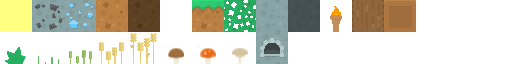
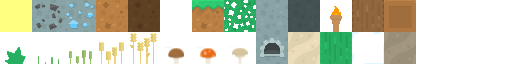
Added deserts, along with cacti and sand which can be cooked into glass. Small Fixes for cookable items and stove block.

Changed region(s): [[0.5625, 0.5, 0.8125, 1.0]]

diff --git a/core/src/com/jmrapp/terralegion/game/world/chunk/gen/HillGenerator.java b/core/src/com/jmrapp/terralegion/game/world/chunk/gen/HillGenerator.java
@@ -14,6 +14,10 @@ public class HillGenerator implements WorldGenerator {
 
 	private Random grassRandom = new Random();
 
+	private boolean sandyGeneration;
+
+	private final int maxCactusHeight = 4;
+
 	public HillGenerator(OreGenerator oreGen) {
 		this.oreGen = oreGen;
 	}
@@ -25,6 +29,12 @@ public class HillGenerator implements WorldGenerator {
 
 	}
 
+	public void generateSandy(SimplexNoise noise, Chunk chunk){
+		sandyGeneration = true;
+		generate(noise, chunk);
+		sandyGeneration = false;
+	}
+
 	public void generate(SimplexNoise noise, Chunk chunk, int x, int y) {
 		int totalX = x + (Chunk.CHUNK_SIZE * chunk.getStartX());
 		float freq = 1.0f / (Chunk.CHUNK_SIZE * 1.25f);
@@ -32,22 +42,30 @@ public class HillGenerator implements WorldGenerator {
 		int finalY = (int) (i * 25) + 24;
 
 		//SET GRASS
-		chunk.setBlock(BlockType.GRASS, x, finalY, false);
-		chunk.setWall(BlockType.DIRT_WALL, x, finalY, false);
+		chunk.setBlock(sandyGeneration ? BlockType.SAND : BlockType.GRASS, x, finalY, false);
+		chunk.setWall(sandyGeneration ? BlockType.SAND_WALL : BlockType.DIRT_WALL, x, finalY, false);
 
 		if(grassRandom.nextInt(5) == 1) {
-			chunk.setBlock(BlockType.COVER_GRASS, x, finalY + 1, false);
+			if(!sandyGeneration) {
+				chunk.setBlock(BlockType.COVER_GRASS, x, finalY + 1, false);
+			}else{
+				for(int cactus = 0; cactus < grassRandom.nextInt(maxCactusHeight); cactus++) {
+					chunk.setBlock(BlockType.CACTUS, x, finalY + (1 + cactus), false);
+				}
+			}
 		}
 
 		//DETERMINE WHETHER TO GENERATE TREE
-		float treeFreq = 1.0f / Chunk.CHUNK_SIZE;
-		float treeValLast = Math.abs(noise.generate((totalX - 1) * treeFreq, (totalX - 1) * treeFreq, 3, .75f, 1f));
-		float treeVal = Math.abs(noise.generate(totalX * treeFreq, totalX * treeFreq, 3, .75f, 1f));
-		float treeValNext = Math.abs(noise.generate((totalX + 1) * treeFreq, (totalX + 1) * treeFreq, 3, .75f, 1f));
+		if(!sandyGeneration) {
+			float treeFreq = 1.0f / Chunk.CHUNK_SIZE;
+			float treeValLast = Math.abs(noise.generate((totalX - 1) * treeFreq, (totalX - 1) * treeFreq, 3, .75f, 1f));
+			float treeVal = Math.abs(noise.generate(totalX * treeFreq, totalX * treeFreq, 3, .75f, 1f));
+			float treeValNext = Math.abs(noise.generate((totalX + 1) * treeFreq, (totalX + 1) * treeFreq, 3, .75f, 1f));
 
-		if (treeVal > treeValLast && treeVal > treeValNext) { //Peak. Spawn tree
-			int treeY = finalY + 1;
-			TreeGenerator.generateTree(chunk, x, treeY);
+			if (treeVal > treeValLast && treeVal > treeValNext) { //Peak. Spawn tree
+				int treeY = finalY + 1;
+				TreeGenerator.generateTree(chunk, x, treeY);
+			}
 		}
 
 		//GENERATE BELOW
@@ -56,8 +74,8 @@ public class HillGenerator implements WorldGenerator {
 				float dirtFreq = 1.0f / (Chunk.CHUNK_SIZE);
 				float dirtVal = Math.abs(noise.generate(x * dirtFreq, y * dirtFreq, 2, .5f, 1f));
 				if (dirtVal > .3f) {
-					chunk.setBlock(BlockType.DIRT, x, j, false);
-					chunk.setWall(BlockType.DIRT_WALL, x, j, false);
+					chunk.setBlock(sandyGeneration ? BlockType.SAND : BlockType.DIRT, x, j, false);
+					chunk.setWall(sandyGeneration ? BlockType.SAND_WALL : BlockType.DIRT_WALL, x, j, false);
 				} else {
 					chunk.setBlock(BlockType.STONE, x, j, false);
 					chunk.setWall(BlockType.STONE_WALL, x, j, false);

diff --git a/core/src/com/jmrapp/terralegion/game/item/ItemManager.java b/core/src/com/jmrapp/terralegion/game/item/ItemManager.java
@@ -38,9 +38,12 @@ public class ItemManager {
 		items.put(BlockType.MUSHROOM_BROWN.getId(), new BlockItem(BlockType.MUSHROOM_BROWN, ItemCategory.MISC, "Brown Mushroom", ResourceManager.getInstance().getDrawable("mushroom0"), 64));
 		items.put(BlockType.MUSHROOM_RED.getId(), new BlockItem(BlockType.MUSHROOM_RED, ItemCategory.MISC, "Red Mushroom", ResourceManager.getInstance().getDrawable("mushroom1"), 64));
 		items.put(BlockType.MUSHROOM.getId(), new BlockItem(BlockType.MUSHROOM, ItemCategory.MISC, "Mushroom", ResourceManager.getInstance().getDrawable("mushroom2"), 64));
-		items.put(ItemType.FISH.getId(), new FishItem(ItemType.FISH.getId(), ItemType.FISH_COOKED, ItemCategory.MISC, "Fish", ResourceManager.getInstance().getDrawable("fish"), 64, 1, 128));
+		items.put(ItemType.FISH.getId(), new FishItem(ItemType.FISH.getId(), ItemType.FISH_COOKED.getId(), ItemCategory.MISC, "Fish", ResourceManager.getInstance().getDrawable("fish"), 64, 1, 128));
 		items.put(ItemType.FISH_COOKED.getId(), new Item(ItemType.FISH_COOKED.getId(), ItemCategory.MISC, "Fish", ResourceManager.getInstance().getDrawable("fish_cooked"), 64));
 		items.put(BlockType.STOVE.getId(), new BlockItem(BlockType.STOVE, ItemCategory.MISC, "Stove", ResourceManager.getInstance().getDrawable("stove"), 64));
+		items.put(BlockType.SAND.getId(), new CookableItem(BlockType.SAND.getId(), BlockType.GLASS.getId(), ItemCategory.BLOCK, "Sand", ResourceManager.getInstance().getDrawable("sand"), 64, 1f, 128f));
+		items.put(BlockType.CACTUS.getId(), new BlockItem(BlockType.CACTUS, ItemCategory.BLOCK, "Cactus", ResourceManager.getInstance().getDrawable("cactus"), 64));
+		items.put(BlockType.GLASS.getId(), new BlockItem(BlockType.GLASS, ItemCategory.BLOCK, "Glass", ResourceManager.getInstance().getDrawable("glass"), 64));
 	}
 
 	public Item getItem(ItemType type) {

diff --git a/core/src/com/jmrapp/terralegion/game/world/entity/DropManager.java b/core/src/com/jmrapp/terralegion/game/world/entity/DropManager.java
@@ -36,6 +36,10 @@ public class DropManager {
         drops.put(BlockType.MUSHROOM_RED.getId(), new Drop(ItemManager.getInstance().getItem(BlockType.MUSHROOM_RED), ResourceManager.getInstance().getDrawable("mushroom1")));
         drops.put(BlockType.MUSHROOM.getId(), new Drop(ItemManager.getInstance().getItem(BlockType.MUSHROOM), ResourceManager.getInstance().getDrawable("mushroom2")));
         drops.put(ItemType.FISH_COOKED.getId(), new Drop(ItemManager.getInstance().getItem(ItemType.FISH_COOKED), ResourceManager.getInstance().getDrawable("fish_cooked")));
+        drops.put(BlockType.SAND.getId(), new Drop(ItemManager.getInstance().getItem(BlockType.SAND), ResourceManager.getInstance().getDrawable("sand")));
+        drops.put(BlockType.CACTUS.getId(), new Drop(ItemManager.getInstance().getItem(BlockType.CACTUS), ResourceManager.getInstance().getDrawable("cactus")));
+        drops.put(BlockType.GLASS.getId(), new Drop(ItemManager.getInstance().getItem(BlockType.GLASS), ResourceManager.getInstance().getDrawable("glass")));
+        drops.put(BlockType.STOVE.getId(), new Drop(ItemManager.getInstance().getItem(BlockType.STOVE), ResourceManager.getInstance().getDrawable("stove")));
     }
 
     public Drop getDrop(BlockType type, int stackCount, float x, float y) {

diff --git a/core/src/com/jmrapp/terralegion/game/world/chunk/ChunkManager.java b/core/src/com/jmrapp/terralegion/game/world/chunk/ChunkManager.java
@@ -15,6 +15,8 @@ import com.jmrapp.terralegion.game.world.chunk.gen.HillGenerator;
 import com.jmrapp.terralegion.game.world.chunk.gen.OreGenerator;
 import com.jmrapp.terralegion.game.utils.Vector2Factory;
 
+import java.util.Random;
+
 public class ChunkManager {
 
 	public static int totalChunksLoaded = 0;
@@ -39,7 +41,11 @@ public class ChunkManager {
 	private SimplexNoise noise = new SimplexNoise();
 
 	private World world;
-	
+
+	private Random random;
+
+	private int sandRarity = 3;
+
 	/**
 	 * Used when loading a new world
 	 * @param world The world instance
@@ -49,6 +55,8 @@ public class ChunkManager {
 		this.world = world;
 		loadSeed(seed);
 		generateTerrain();
+
+		this.random = new Random();
 	}
 	
 	/** Used when loading an existing world. */
@@ -76,7 +84,11 @@ public class ChunkManager {
 			@Override
 			public void run() {*/
 				if(chunk.getStartY() == CHUNKS_Y - 1) { //If it is the top chunk where the hills should be generated
-					hillGenerator.generate(noise, chunk);
+					if(random.nextInt(sandRarity) == 1) {
+						hillGenerator.generateSandy(noise, chunk);
+					}else{
+						hillGenerator.generate(noise, chunk);
+					}
 				} else {
 					oreGenerator.generate(noise, chunk);
 				}

diff --git a/core/src/com/jmrapp/terralegion/game/world/block/BlockManager.java b/core/src/com/jmrapp/terralegion/game/world/block/BlockManager.java
@@ -33,6 +33,10 @@ public class BlockManager {
 		blocks.put(BlockType.MUSHROOM_RED, new Block(BlockType.MUSHROOM_RED, ResourceManager.getInstance().getDrawable("mushroom1"), .15f, false, false, .5f, .1f));
 		blocks.put(BlockType.MUSHROOM, new Block(BlockType.MUSHROOM, ResourceManager.getInstance().getDrawable("mushroom2"), .15f, false, false, .5f, .1f));
 		blocks.put(BlockType.STOVE, new Block(BlockType.STOVE, ResourceManager.getInstance().getDrawable("stove"), .1f, false, false, 1, 1f));
+		blocks.put(BlockType.SAND, new Block(BlockType.SAND, ResourceManager.getInstance().getDrawable("sand"), .0f, true, false, .5f, .25f));
+		blocks.put(BlockType.CACTUS, new CoverGrassBlock(BlockType.CACTUS, ResourceManager.getInstance().getDrawable("cactus"), .01f, true, false, .1f, .1f));
+		blocks.put(BlockType.GLASS, new Block(BlockType.GLASS, ResourceManager.getInstance().getDrawable("glass"), .15f, true, false, .1f, .1f));
+		blocks.put(BlockType.SAND_WALL, new Wall(BlockType.SAND_WALL, ResourceManager.getInstance().getDrawable("sandWall"), .5f, .15f));
 	}
 	
 	public static Block getBlock(BlockType type) {

diff --git a/core/src/com/jmrapp/terralegion/PhysicsGame.java b/core/src/com/jmrapp/terralegion/PhysicsGame.java
@@ -89,6 +89,10 @@ public class PhysicsGame implements ApplicationListener {
         ResourceManager.getInstance().loadAtlasRegionDrawable("mushroom1", atlas, "mushroom1");
         ResourceManager.getInstance().loadAtlasRegionDrawable("mushroom2", atlas, "mushroom2");
         ResourceManager.getInstance().loadAtlasRegionDrawable("stove", atlas, "stove");
+        ResourceManager.getInstance().loadAtlasRegionDrawable("sand", atlas, "sand");
+        ResourceManager.getInstance().loadAtlasRegionDrawable("cactus", atlas, "cactus");
+        ResourceManager.getInstance().loadAtlasRegionDrawable("glass", atlas, "glass");
+        ResourceManager.getInstance().loadAtlasRegionDrawable("sandWall", atlas, "sandWall");
 
         atlas = new TextureAtlas(Gdx.files.internal("tiles/drops.atlas"));
         //DROPS

diff --git a/core/src/com/jmrapp/terralegion/game/item/impl/CookableItem.java b/core/src/com/jmrapp/terralegion/game/item/impl/CookableItem.java
@@ -23,11 +23,11 @@ import java.util.Random;
  */
 public class CookableItem extends UsableItem {
 
-    private ItemType returnItem;
+    private int returnItem;
 
     private Random positionRandom;
 
-    public CookableItem(int typeId, ItemType returnItem, ItemCategory category, String name, Drawable icon, int maxItemStack, float useDelay, float reach){
+    public CookableItem(int typeId, int returnItem, ItemCategory category, String name, Drawable icon, int maxItemStack, float useDelay, float reach){
         super(typeId, category, name, icon, maxItemStack, useDelay, reach);
         this.returnItem = returnItem;
         positionRandom = new Random();

diff --git a/core/src/com/jmrapp/terralegion/game/world/block/BlockType.java b/core/src/com/jmrapp/terralegion/game/world/block/BlockType.java
@@ -4,7 +4,7 @@ public enum BlockType {
 
 	AIR(0), DIRT(1), GRASS(2), STONE(3), DIAMOND(4), TORCH(5), STONE_WALL(6), COAL(8), DIRT_WALL(9),
     WOOD(10), LEAVES(11), WOOD_CHEST(14), COVER_GRASS(15), CROP_BLOCK_0(16), CROP_BLOCK_1(17), CROP_BLOCK_2(18), CROP_BLOCK_3(19),
-    MUSHROOM_BROWN(21), MUSHROOM_RED(22), MUSHROOM(23), STOVE(28);
+    MUSHROOM_BROWN(21), MUSHROOM_RED(22), MUSHROOM(23), STOVE(28), SAND(30), CACTUS(31), GLASS(32), SAND_WALL(33);
 
     private static final BlockType[] blockTypeArray = values();
 	private final int id;

diff --git a/core/src/com/jmrapp/terralegion/game/item/impl/FishItem.java b/core/src/com/jmrapp/terralegion/game/item/impl/FishItem.java
@@ -14,7 +14,7 @@ import com.jmrapp.terralegion.game.world.entity.impl.Bunny;
  */
 public class FishItem extends CookableItem {
 
-    public FishItem(int typeId, ItemType returnItem, ItemCategory category, String name, Drawable icon, int maxItemStack, float useDelay, float reach){
+    public FishItem(int typeId, int returnItem, ItemCategory category, String name, Drawable icon, int maxItemStack, float useDelay, float reach){
         super(typeId, returnItem, category, name, icon, maxItemStack, useDelay, reach);
     }
 

diff --git a/core/src/com/jmrapp/terralegion/game/world/entity/impl/Player.java b/core/src/com/jmrapp/terralegion/game/world/entity/impl/Player.java
@@ -27,7 +27,7 @@ public class Player extends LivingEntity {
 
 		this.inventory.addItemStack(ItemManager.getInstance().getItem(BlockType.WOOD_CHEST), 1);
 		this.inventory.addItemStack(ItemManager.getInstance().getItem(BlockType.STOVE), 1);
-		this.inventory.addItemStack(ItemManager.getInstance().getItem(ItemType.FISH), 10);
+		this.inventory.addItemStack(ItemManager.getInstance().getItem(ItemType.FISH), 25);
 	}
 
     private static AnimationDrawable createAnimationDrawable() {
